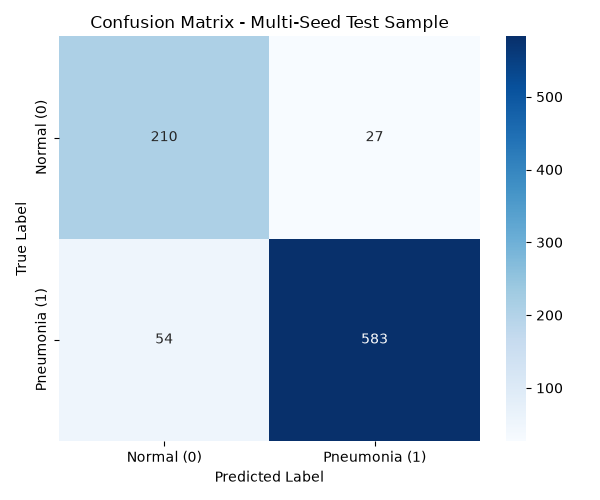
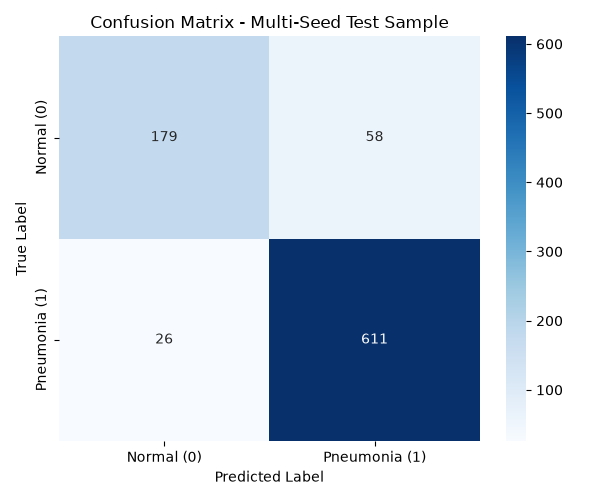
Train models

diff --git a/scripts/src/train.py b/scripts/src/train.py
@@ -34,7 +34,7 @@ def get_optimizer(optimizer_name: str, learning_rate: float):
 def parse_args():
     parser = argparse.ArgumentParser()
     parser.add_argument("--seed", type=int, default=42)
-    parser.add_argument("--epochs", type=int, default=20)
+    parser.add_argument("--epochs", type=int, default=30)
     parser.add_argument("--batch_size", type=int, default=64)
     parser.add_argument("--data_dir", default="../../../chest_xray_cache")
     parser.add_argument("--model_name", type=str, default="simple_cnn", help="Model Architecture to train")
@@ -84,16 +84,16 @@ def main():
     )
 
     callbacks = [
-        tf.keras.callbacks.EarlyStopping(monitor="val_loss", patience=10, restore_best_weights=True),
-        tf.keras.callbacks.ReduceLROnPlateau(monitor="val_auc", mode="max", factor=0.5, patience=2)
+        tf.keras.callbacks.EarlyStopping(monitor="val_loss", patience=8, restore_best_weights=True),
+        tf.keras.callbacks.ReduceLROnPlateau(monitor="val_auc", mode="max", factor=0.5, patience=5)
     ]
     model.fit(train_ds, validation_data=val_ds, class_weight=weights,
               epochs=args.epochs, callbacks=callbacks)
 
     if args.model_name in block_based_models:
-        save_filename = f"pneumonia_{args.model_name}_b{args.num_blocks}_seed{args.seed}.keras"
+        save_filename = f"models/pneumonia_{args.model_name}_b{args.num_blocks}_seed{args.seed}.keras"
     else:
-        save_filename = f"pneumonia_{args.model_name}_seed{args.seed}.keras"
+        save_filename = f"models/pneumonia_{args.model_name}_seed{args.seed}.keras"
     model.save(save_filename)
     print(f"[INFO] Model successfully saved to: {save_filename}")
 

diff --git a/scripts/src/models.py b/scripts/src/models.py
@@ -16,6 +16,31 @@ def build_simple_cnn(input_shape):
     ])
 
 
+def build_light_cnn(input_shape, augment=True, leaky=False):
+    L = tf.keras.layers
+
+    def conv(filters, k):
+        if leaky:
+            return [L.Conv2D(filters, k), L.LeakyReLU(0.01)]
+        return [L.Conv2D(filters, k, activation="relu")]
+
+    aug = [L.RandomRotation(12 / 360, fill_mode="nearest"),
+           L.RandomZoom(0.15, fill_mode="nearest"),
+           L.RandomTranslation(0.15, 0.15, fill_mode="nearest")] if augment else []
+
+    return tf.keras.Sequential([
+        L.Input(shape=input_shape), *aug,
+        *conv(16, 5), *conv(16, 5), L.MaxPooling2D(3),
+        *conv(32, 5), *conv(32, 5), L.MaxPooling2D(3),
+        *conv(64, 3), *conv(64, 3), L.MaxPooling2D(2),
+        *conv(128, 3), *conv(128, 3), L.MaxPooling2D(2),
+        L.Flatten(),
+        L.Dense(128, activation="relu"),
+        L.Dropout(0.2),
+        L.Dense(1, activation="sigmoid"),
+    ], name="light_cnn")
+
+
 def residual_block(x, filters):
     """Custom Residual Block with skip connections and Leaky ReLU."""
     shortcut = x
@@ -125,5 +150,6 @@ MODEL_REGISTRY = {
     "simple_cnn": build_simple_cnn,
     "residual_cnn": build_residual_cnn,
     "convnext": build_convnext,
+    "light_cnn" : build_light_cnn,
 
 }

diff --git a/scripts/src/eval.py b/scripts/src/eval.py
@@ -36,9 +36,9 @@ def evaluate_multi_seed(data_dir: str, model_name: str, num_blocks: int = 2, bat
     test_ds = build_dataset(xts, yts, batch_size=batch_size)
     block_based_models = ["residual_cnn", "convnext"]
     if args.model_name in block_based_models:
-        file_pattern = f"pneumonia_{args.model_name}_b{args.num_blocks}_seed*.keras"
+        file_pattern = f"models/pneumonia_{args.model_name}_b{args.num_blocks}_seed*.keras"
     else:
-        file_pattern = f"pneumonia_{args.model_name}_seed*.keras"
+        file_pattern = f"models/pneumonia_{args.model_name}_seed*.keras"
 
     model_paths = sorted(glob.glob(file_pattern))
 
@@ -73,7 +73,7 @@ def evaluate_multi_seed(data_dir: str, model_name: str, num_blocks: int = 2, bat
         youden_j = tpr - fpr
         optimal_idx = np.argmax(youden_j)
         optimal_threshold = thresholds[optimal_idx]
-        y_pred = (y_pred_probs >= optimal_threshold).astype(int)
+        y_pred = (y_pred_probs >= 0.37).astype(int)
 
 
         rec = recall_score(y_true, y_pred, pos_label=1, zero_division=0)
